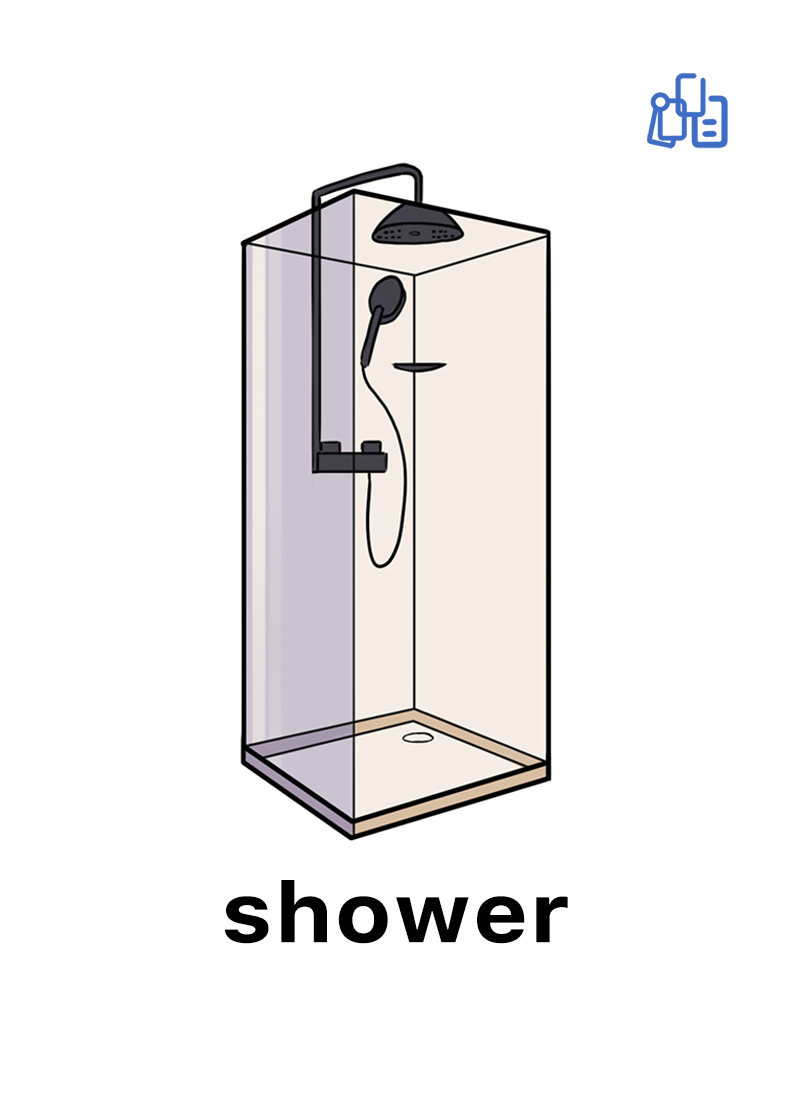
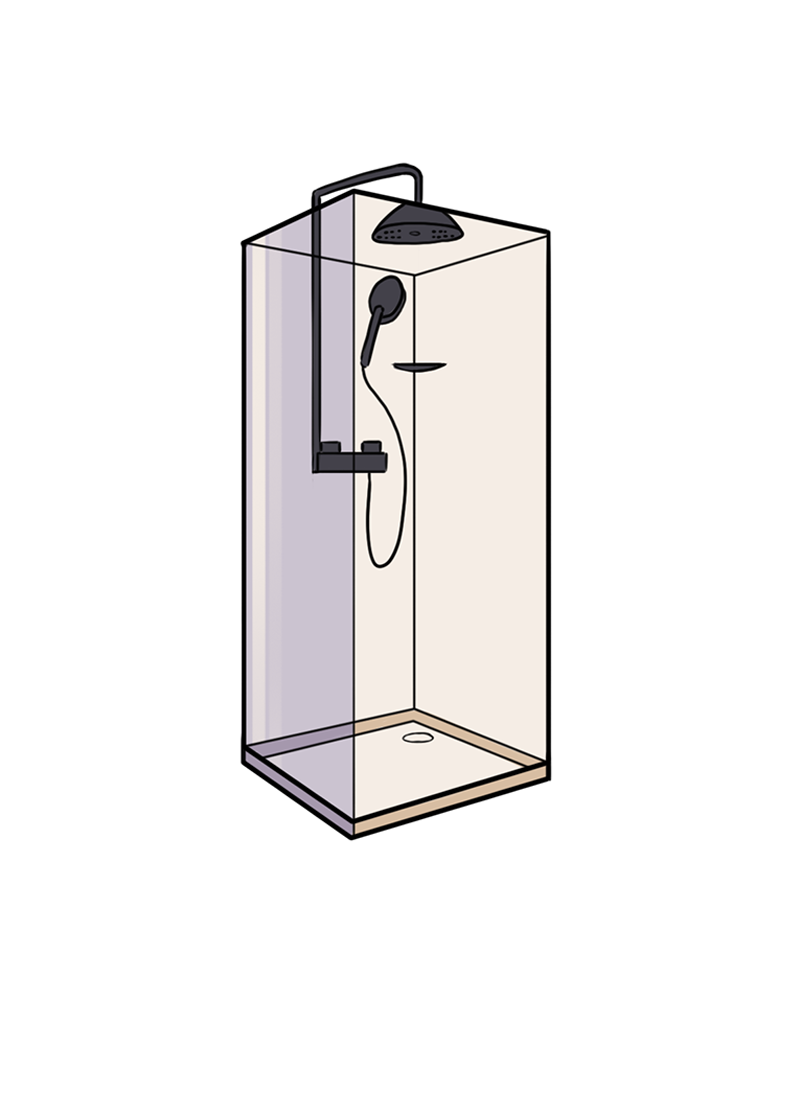
Split Emmanuel day centre from hub room and refresh shower card art.
Day centre uses the community-centre illustration again; hub room is its own schedule step with a cover-framed 531×648 asset, and shower/shampoo PNGs are updated.

Changed region(s): [[0.2781, 0.8007, 0.7108, 0.8623], [0.8035, 0.0616, 0.9271, 0.154]]

diff --git a/src/lib/cards/day-centre-general-cards.ts b/src/lib/cards/day-centre-general-cards.ts
@@ -36,6 +36,7 @@ export const DAY_CENTRE_GENERAL_CARD_FILES = [
   "tube.png",
   "cafe.png",
   "community-centre.png",
+  "hub-room.png",
   "cross-road.png",
   "dinner.png",
   "drink.png",
@@ -261,6 +262,7 @@ export const DAY_CENTRE_GENERAL_SEQUENCE: readonly DayCentreGeneralStep[] = [
   { id: "dcg-not-now", slug: "not-now", title: "Not now" },
   // Places & extras
   { id: "dcg-community-centre", slug: "community-centre", title: "Community centre" },
+  { id: "dcg-hub-room", slug: "hub-room", title: "Hub room" },
   { id: "dcg-make-up", slug: "make-up", title: "Make up" },
   { id: "dcg-birthday-cake", slug: "birthday-cake", title: "Birthday cake" },
   { id: "dcg-birthday-party", slug: "birthday-party", title: "Birthday party" },

diff --git a/src/lib/cards/day-centre-emmanuel-cards.ts b/src/lib/cards/day-centre-emmanuel-cards.ts
@@ -83,6 +83,13 @@ export const DAY_CENTRE_EMMANUEL_DAILY_SEQUENCE: readonly EmmanuelDailyStep[] =
       id: "dced-day-centre",
       slug: "day-centre",
       title: "Day centre",
+      items: { type: "general", slug: "community-centre" },
+      avatar: { type: "general", slug: "community-centre" },
+    },
+    {
+      id: "dced-hub-room",
+      slug: "hub-room",
+      title: "Hub room",
       items: { type: "general", slug: "hub-room" },
       avatar: { type: "general", slug: "hub-room" },
     },

diff --git a/src/lib/i18n/pixto-digital-locale.ts b/src/lib/i18n/pixto-digital-locale.ts
@@ -152,6 +152,7 @@ const DIGITAL_SLUG_TITLE: Record<string, { en: string; es: string }> = {
   dinner: { en: "dinner", es: "cena" },
   "bus-stop": { en: "bus stop", es: "parada de autobús" },
   "community-centre": { en: "community centre", es: "centro comunitario" },
+  "hub-room": { en: "hub room", es: "sala hub" },
   shops: { en: "shops", es: "tiendas" },
   playground: { en: "playground", es: "parque infantil" },
   "swimming-pool": { en: "swimming pool", es: "piscina" },

diff --git a/src/lib/cards/day-centre-library-groups.ts b/src/lib/cards/day-centre-library-groups.ts
@@ -153,6 +153,7 @@ const SLUG_GROUP: Record<string, DayCentreLibraryGroup> = {
   "not-now": "communication",
   // Places & extras
   "community-centre": "places-extras",
+  "hub-room": "places-extras",
   "make-up": "places-extras",
   "birthday-cake": "places-extras",
   "birthday-party": "places-extras",
